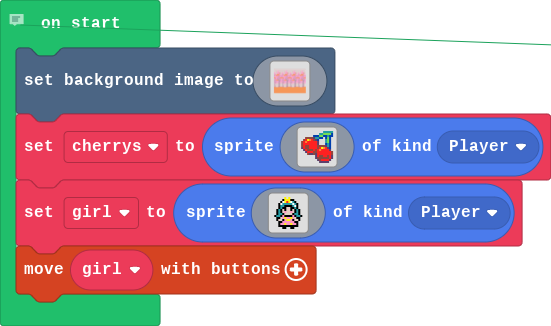
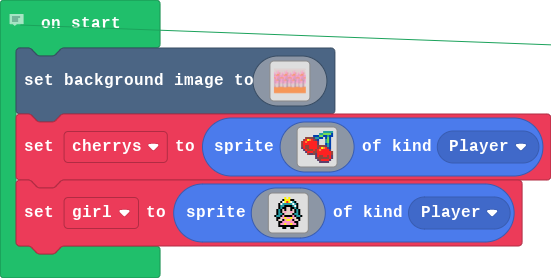
Update main.blocks, main.ts

diff --git a/main.ts b/main.ts
@@ -157,4 +157,3 @@ let girl = sprites.create(img`
     . . . f f f f f f f f f f . . . 
     . . . . . f f . . f f . . . . . 
     `, SpriteKind.Player)
-controller.moveSprite(girl)
